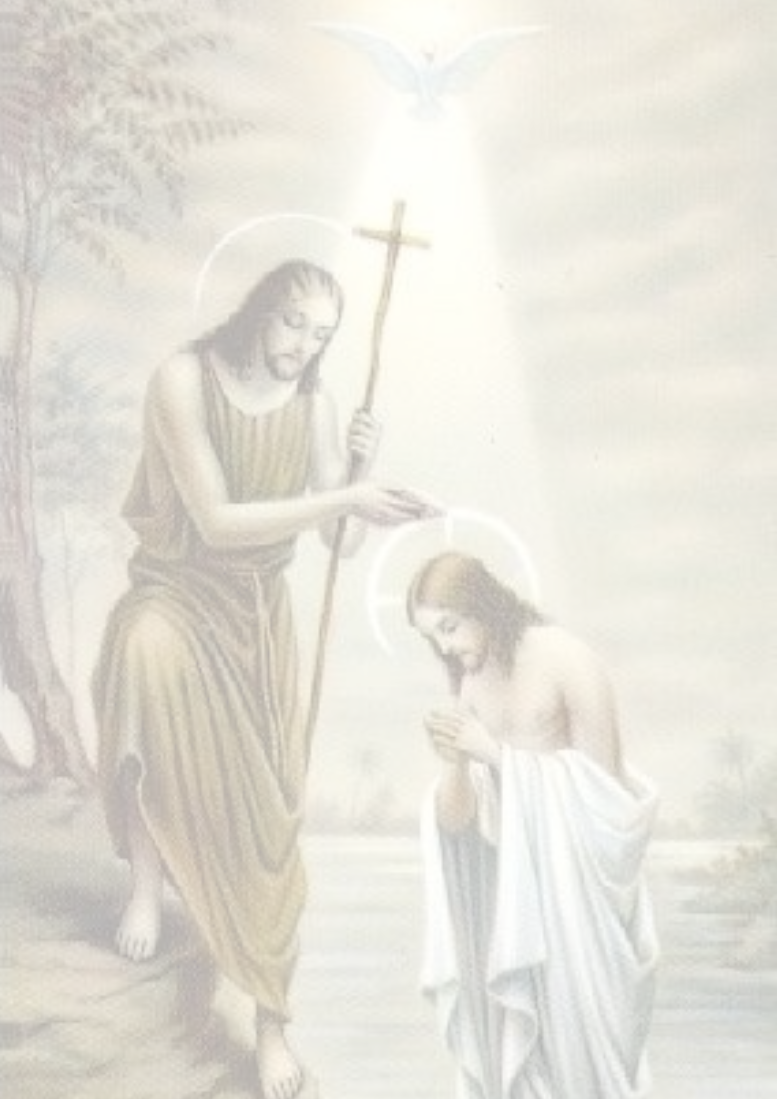
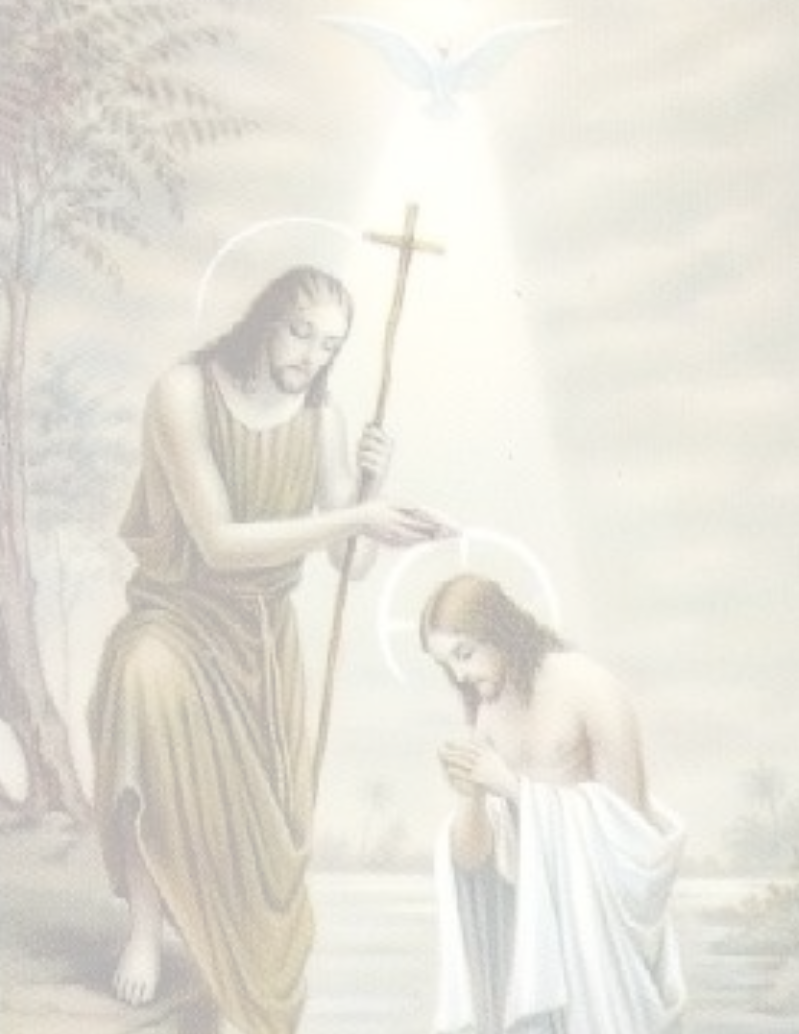
latest

diff --git a/print.html b/print.html
@@ -9,7 +9,6 @@
         <div id="certificate">
             <div id="mainCertificate">
                 <br/>
-                <br/>
                 <b>Roman Catholic Church</b>
                 <br/>
                 ARCHDIOCESE OF DAVAO
@@ -60,7 +59,6 @@
                 
                 <div id="certifyText"><hr/>This is to certify that this Certificate is a true Copy of <span id="certifyType"></span> Record kept in this Parish.</div>
                 <br/>
-                <br/>
                 <table id="record">
                     <tbody>
                         <tr>
@@ -105,8 +103,6 @@
                         </tr>
                     </table>
                 </div>
-                <br/>
-                <br/>
                 <br/>
                 <br/>
                 <div id="validText">*not valid without seal*</div>

diff --git a/assets/js/print.js b/assets/js/print.js
@@ -27,16 +27,16 @@ function populate(data){
     $("#title").html(data.details.title);
     var element = document.getElementById('bodyTag');
     var opt = {
-    margin:       0,
-    filename:     'myfile.pdf',
-    image:        { type: 'jpeg', quality: 0.98 },
-    html2canvas:  { scale: 1 },
-    jsPDF:        { unit: 'in', format: 'a4', orientation: 'portrait' }
+        margin:       0,
+        filename:     'myfile.pdf',
+        image:        { type: 'jpeg', quality: 0.98 },
+        html2canvas:  { scale: 1 },
+        jsPDF:        { unit: 'in', format: 'letter', orientation: 'portrait' }
     };
     
     
     html2pdf().set(opt).from(element).toPdf().save().then(function(){
-        window.close();
+        //window.close();
     });
     
 }

diff --git a/assets/js/function.js b/assets/js/function.js
@@ -94,7 +94,7 @@ function printRegistration(reference){
         collision:"none",
         buttons:{
             "Ok": async function() {
-                var printWindows = window.open("print.html","Print Registration","_blank,height=1123,width=794,scrollbars=no");
+                var printWindows = window.open("print.html","Print Registration","_blank,height=1034,width=799,scrollbars=no");
                 await getRegistration(reference).then(function(data){
                     console.log(data);
                     data.details.dateIssued=$("#dateIssue").val();

diff --git a/app.js b/app.js
@@ -91,7 +91,7 @@ router.get('/registration/:regIndex',(req,res) => {
 });
 
 function connectDB(){
-    db = new sqlite3.Database(process.cwd()+'./parish.db', (err) => {
+    db = new sqlite3.Database(getDir()+'/parish.db', (err) => {
         if (err) {
         console.error(err.message);
         }else{
@@ -206,7 +206,7 @@ async function addRegistration(data){
 }
 
 function getDir() {
-    
+    return __dirname;
     if (process.pkg) {
         return path.resolve(process.execPath + "/..");
     } else {

diff --git a/assets/css/print.css b/assets/css/print.css
@@ -1,8 +1,8 @@
 body{
     background-image: url("/assets/img/bitmap.png");
     background-repeat:no-repeat;
-    width:794px;
-    height:1100px;
+    width:799px;
+    height:1034px;
     overflow-x:hidden;
     overflow-y:hidden;
     
